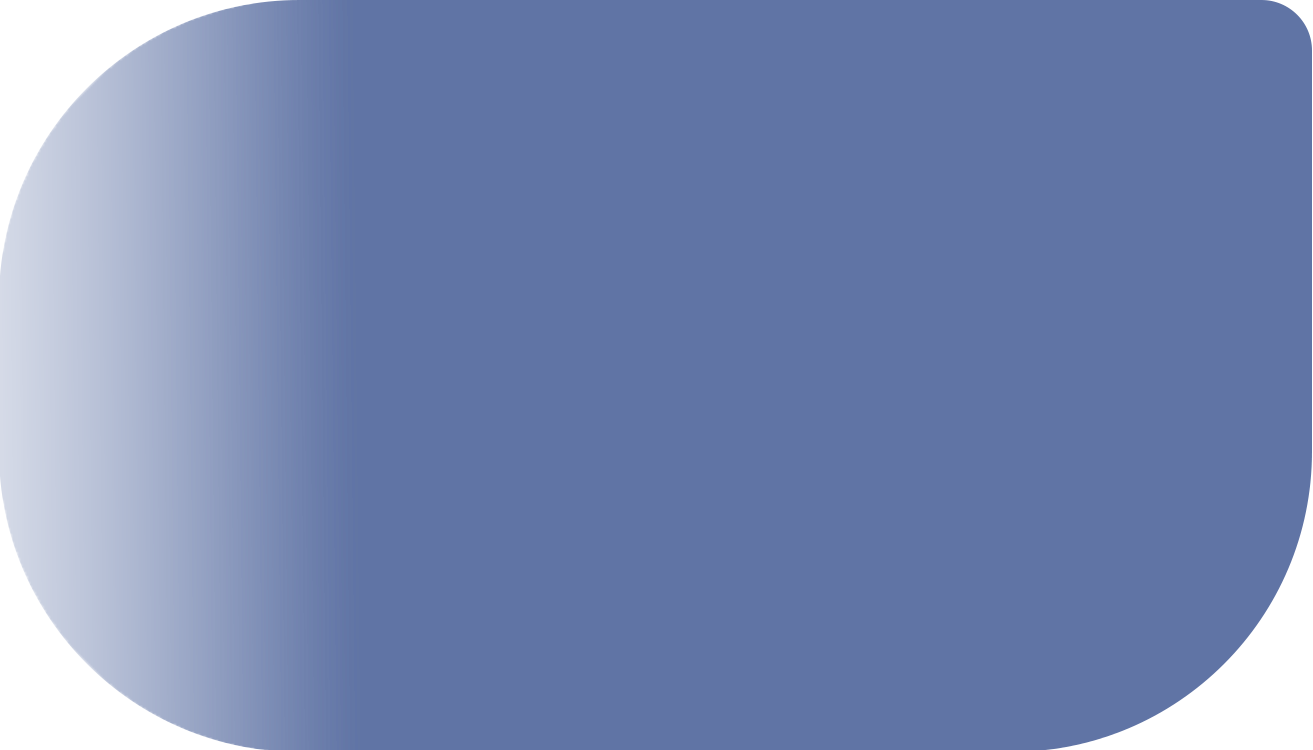
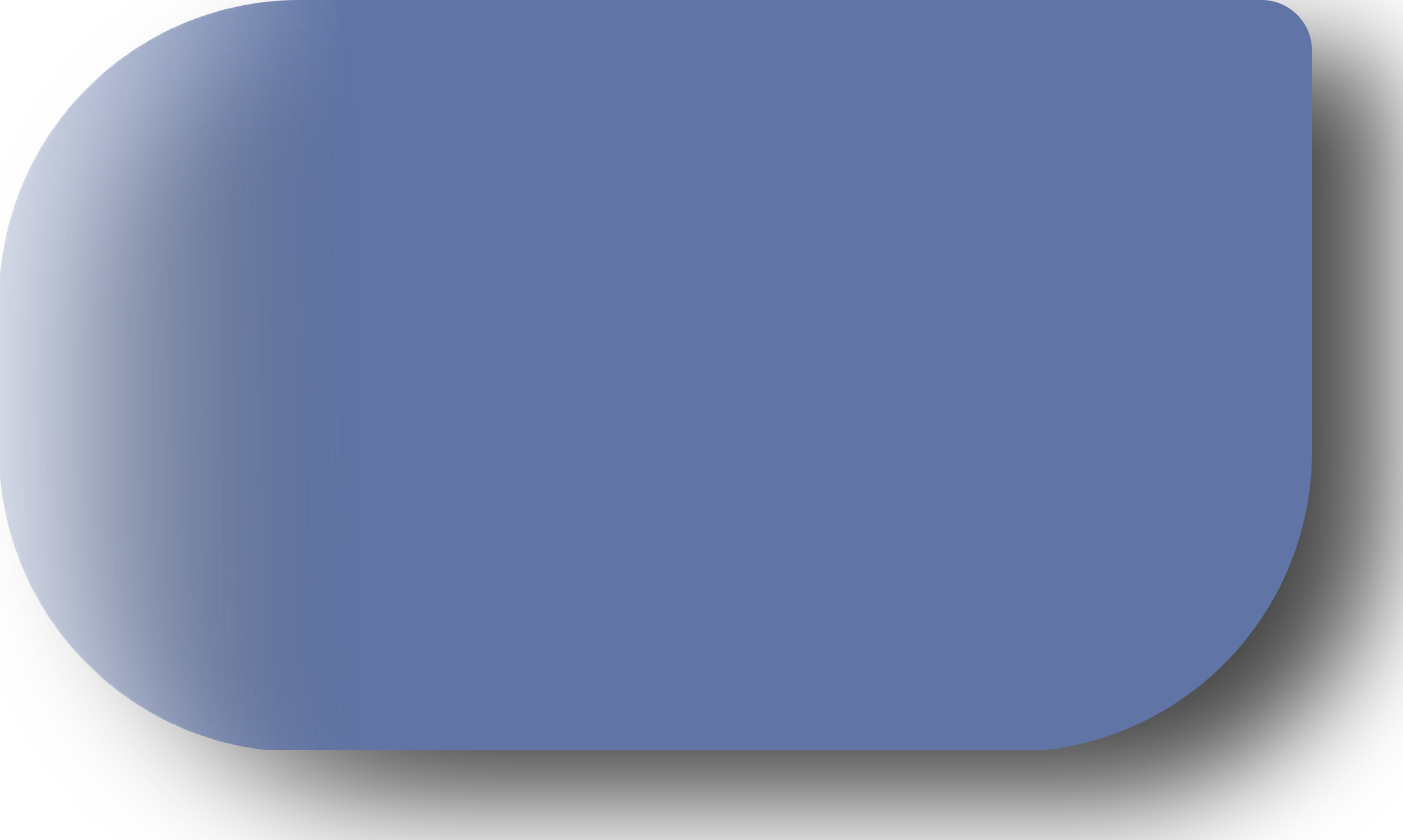
modification zone de stat

diff --git a/js/update_preview.js b/js/update_preview.js
@@ -216,7 +216,7 @@ function updateStats(stat, type) {
         document.getElementById("preview-leaf").innerHTML = stat;
         let els = document.getElementsByClassName("fond-stat")
         Array.prototype.forEach.call(els, function(el) {
-            el.innerHTML = `<img src="images/${el.id}_zero.png" alt="${el.id} background" height="31" id="${el.id}-background"/>`;
+            el.innerHTML = `<img src="images/${el.id}_zero.png" alt="${el.id} background" height="35" id="${el.id}-background"/>`;
         });  
     } else {
         var stat_preview = document.getElementById(`preview-${type}`);
@@ -235,67 +235,67 @@ function updateStats(stat, type) {
         if(earth_stat < ocean_stat && earth_stat < leaf_stat) {
             modified["earth"] = true;
             smaller = true;
-            document.getElementById("earth").innerHTML = '<img src="images/earth_small.png" alt="earth background" height="31" id="earth-background"/>';
+            document.getElementById("earth").innerHTML = '<img src="images/earth_small.png" alt="earth background" height="35" id="earth-background"/>';
         } else if(ocean_stat < earth_stat && ocean_stat < leaf_stat) {
             modified["ocean"] = true;
             smaller = true;
-            document.getElementById("ocean").innerHTML = '<img src="images/ocean_small.png" alt="ocean background" height="31" id="ocean-background"/>';
+            document.getElementById("ocean").innerHTML = '<img src="images/ocean_small.png" alt="ocean background" height="35" id="ocean-background"/>';
         } else if(leaf_stat < ocean_stat && leaf_stat < earth_stat) {
             modified["leaf"] = true;
             smaller = true;
-            document.getElementById("leaf").innerHTML = '<img src="images/leaf_small.png" alt="leaf background" height="31" id="leaf-background"/>';
+            document.getElementById("leaf").innerHTML = '<img src="images/leaf_small.png" alt="leaf background" height="35" id="leaf-background"/>';
         }
         //un plus grand
         if(smaller) {
             if(earth_stat > ocean_stat && earth_stat > leaf_stat) {
                 modified["earth"] = true;
-                document.getElementById("earth").innerHTML = '<img src="images/earth_large.png" alt="earth background" height="31" id="earth-background"/>';
+                document.getElementById("earth").innerHTML = '<img src="images/earth_large_o.png" alt="earth background" height="35" id="earth-background"/>';
             } else if(ocean_stat > earth_stat && ocean_stat > leaf_stat) {
                 modified["ocean"] = true;
-                document.getElementById("ocean").innerHTML = '<img src="images/ocean_large.png" alt="ocean background" height="31" id="ocean-background"/>';
+                document.getElementById("ocean").innerHTML = '<img src="images/ocean_large_o.png" alt="ocean background" height="35" id="ocean-background"/>';
             } else if(leaf_stat > ocean_stat && leaf_stat > earth_stat) {
                 modified["leaf"] = true;
-                document.getElementById("leaf").innerHTML = '<img src="images/leaf_large.png" alt="leaf background" height="31" id="leaf-background"/>';
+                document.getElementById("leaf").innerHTML = '<img src="images/leaf_large_o.png" alt="leaf background" height="35" id="leaf-background"/>';
             }
         } else {
             if(earth_stat > ocean_stat && earth_stat > leaf_stat) {
                 modified["ocean"] = true;
                 modified["leaf"] = true;
-                document.getElementById("leaf").innerHTML = '<img src="images/leaf_small.png" alt="leaf background" height="31" id="leaf-background"/>';
-                document.getElementById("ocean").innerHTML = '<img src="images/ocean_small.png" alt="ocean background" height="31" id="ocean-background"/>';
+                document.getElementById("leaf").innerHTML = '<img src="images/leaf_small.png" alt="leaf background" height="35" id="leaf-background"/>';
+                document.getElementById("ocean").innerHTML = '<img src="images/ocean_small.png" alt="ocean background" height="35" id="ocean-background"/>';
             } else if(ocean_stat > earth_stat && ocean_stat > leaf_stat) {
                 modified["earth"] = true;
                 modified["leaf"] = true;
-                document.getElementById("leaf").innerHTML = '<img src="images/leaf_small.png" alt="leaf background" height="31" id="leaf-background"/>';
-                document.getElementById("earth").innerHTML = '<img src="images/earth_small.png" alt="earth background" height="31" id="earth-background"/>';
+                document.getElementById("leaf").innerHTML = '<img src="images/leaf_small.png" alt="leaf background" height="35" id="leaf-background"/>';
+                document.getElementById("earth").innerHTML = '<img src="images/earth_small.png" alt="earth background" height="35" id="earth-background"/>';
             } else if(leaf_stat > ocean_stat && leaf_stat > earth_stat) {
                 modified["ocean"] = true;
                 modified["earth"] = true;
-                document.getElementById("ocean").innerHTML = '<img src="images/ocean_small.png" alt="ocean background" height="31" id="ocean-background"/>';
-                document.getElementById("earth").innerHTML = '<img src="images/earth_small.png" alt="earth background" height="31" id="earth-background"/>';
+                document.getElementById("ocean").innerHTML = '<img src="images/ocean_small.png" alt="ocean background" height="35" id="ocean-background"/>';
+                document.getElementById("earth").innerHTML = '<img src="images/earth_small.png" alt="earth background" height="35" id="earth-background"/>';
             }
         }
         
         
         if(earth_stat === 0) {
             modified["earth"] = true;
-            document.getElementById("earth").innerHTML = '<img src="images/earth_zero.png" alt="earth background" height="31" id="earth-background"/>';
+            document.getElementById("earth").innerHTML = '<img src="images/earth_zero.png" alt="earth background" height="35" id="earth-background"/>';
         }
         if(leaf_stat === 0) {
             modified["leaf"] = true;
-            document.getElementById("leaf").innerHTML = '<img src="images/leaf_zero.png" alt="leaf background" height="31" id="leaf-background"/>';
+            document.getElementById("leaf").innerHTML = '<img src="images/leaf_zero.png" alt="leaf background" height="35" id="leaf-background"/>';
         }
         if(ocean_stat === 0) {
             modified["ocean"] = true;
-            document.getElementById("ocean").innerHTML = '<img src="images/ocean_zero.png" alt="ocean background" height="31" id="ocean-background"/>';
+            document.getElementById("ocean").innerHTML = '<img src="images/ocean_zero.png" alt="ocean background" height="35" id="ocean-background"/>';
         }
         //si aucune des conditions précédentes
         if(!modified["earth"])
-            document.getElementById("earth").innerHTML = '<img src="images/earth_normal.png" alt="earth background" height="31" id="earth-background"/>';
+            document.getElementById("earth").innerHTML = '<img src="images/earth_normal.png" alt="earth background" height="35" id="earth-background"/>';
         if(!modified["leaf"])
-            document.getElementById("leaf").innerHTML = '<img src="images/leaf_normal.png" alt="leaf background" height="31" id="leaf-background"/>';
+            document.getElementById("leaf").innerHTML = '<img src="images/leaf_normal.png" alt="leaf background" height="35" id="leaf-background"/>';
         if(!modified["ocean"])
-            document.getElementById("ocean").innerHTML = '<img src="images/ocean_normal.png" alt="ocean background" height="31" id="ocean-background"/>';
+            document.getElementById("ocean").innerHTML = '<img src="images/ocean_normal.png" alt="ocean background" height="35" id="ocean-background"/>';
 
     }
 }

diff --git a/styles.css b/styles.css
@@ -161,7 +161,6 @@ main {
 }
 .card-leaf { 
     text-shadow: 2px 2px 30px #000;
-    filter: drop-shadow(3px 3px 2px rgba(0, 0, 0, 0.45));
     font-size: 24px;
     top: 108px; left: 27px; 
     z-index: 2;
